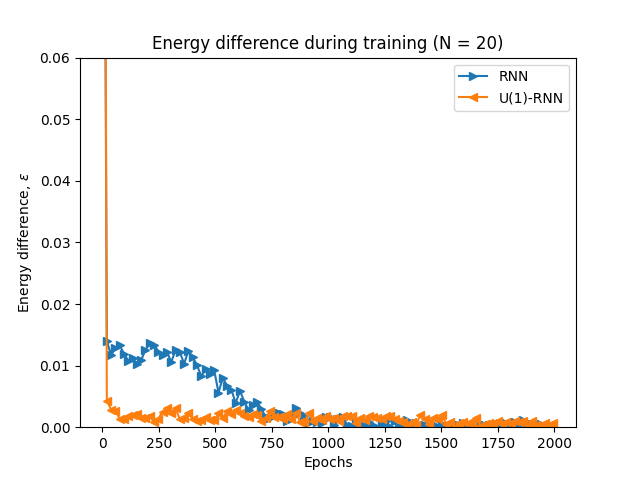
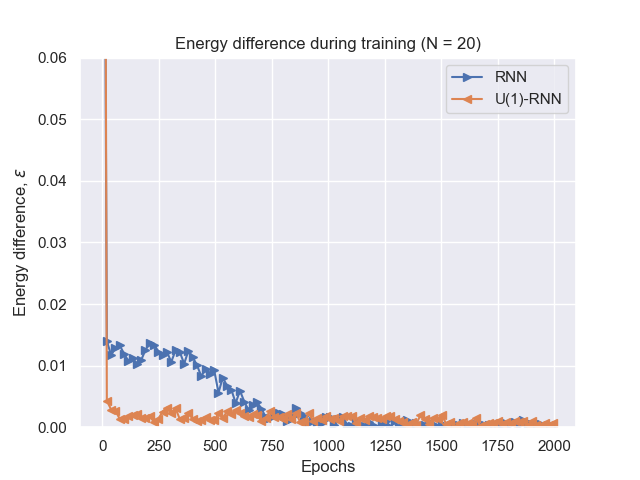
plot update

diff --git a/visualizations.py b/visualizations.py
@@ -7,6 +7,8 @@ Authors: Kishor Srikantharuban, Sam Yu
 import matplotlib.pyplot as plt
 import numpy as np
 import os
+import seaborn as sns
+sns.set_theme()
 
 
 def create_energy_plot(num_spins, in_path, fig_no):
@@ -94,6 +96,35 @@ def plot_nonzero_sz(num_spins, in_path):
 
     return fig
 
+def plot_infidelity(num_spins, in_path):
+
+    """
+    Plot the infidelity during training
+
+    :param num_spins:
+    :param in_path:
+    :return:
+    """
+
+    with plt.ioff():
+        fig, ax = plt.subplots()
+
+    path = os.path.join(in_path, f"N={num_spins}")
+
+    symm = ['True', 'False']
+    color = ['r', 'b']
+    for i in range(len(symm)):
+
+        data = np.load(os.path.join(path,f'infidelity_N_{num_spins}_symm_{symm[i]}.npy'))
+        ax.plot(np.arange(2000)[::30], data[::30], marker = "v", markevery=1, color=color[i])
+    
+    ax.legend(['U(1)-RNN', 'RNN'])
+    ax.set_xlabel("Epochs")
+    ax.set_ylabel("1-F")
+    ax.set_title(f"N={num_spins}")
+    ax.set_yscale('log')
+    return fig
+
 
 if __name__ == "__main__":
 
@@ -118,4 +149,8 @@ if __name__ == "__main__":
     for N in [4, 10]:
         sz_nonzero_fig = plot_nonzero_sz(num_spins=N, in_path=results_path)
         sz_nonzero_fig.savefig(os.path.join("figures", f"sz_N_{N}.png"))
+
+    for N in [4, 10]:
+        infidelity = plot_infidelity(num_spins=N, in_path=results_path)
+        infidelity.savefig(os.path.join("figures", f"infidelity_N_{N}.png"))
 
